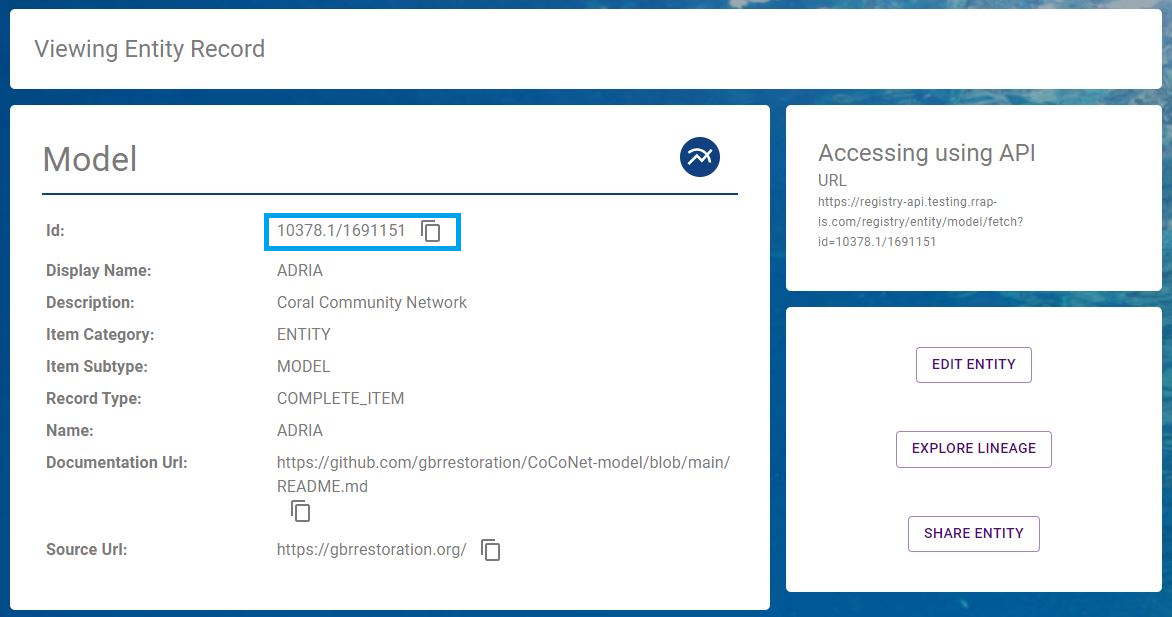
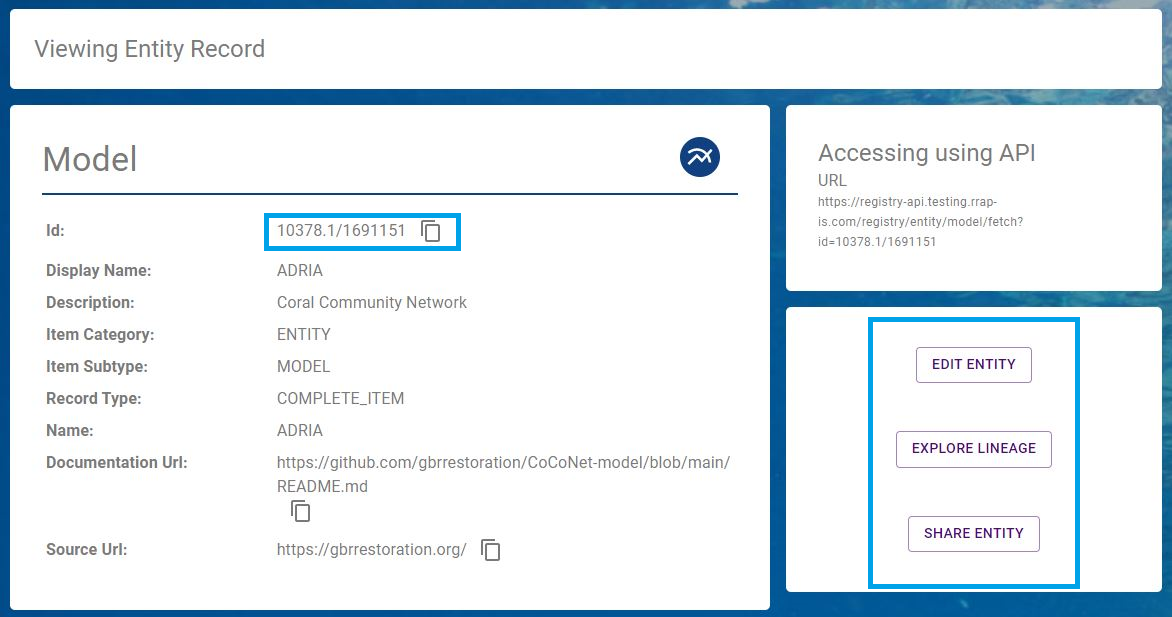
View items

Changed region(s): [[0.7372, 0.4927, 0.9215, 0.9546]]

diff --git a/information-system/provenance/exploring-provenance/index.md b/information-system/provenance/exploring-provenance/index.md
@@ -100,8 +100,24 @@ Listings can be searched by free text entry :
 
 ### View 
 
-Click on any of the tiles to view the record details :
+Click on any of the tiles to view the record details, edit, share or explore lineage:
 
 |                                   Search :                               |
 | :-----------------------------------------------------------------------------: | 
 | <img src="../../../assets/images/provenance/90_ViewRecord.png" alt="drawing" width="600"/>      |
+
+### Edit Record 
+
+Click on **EDIT ENTITY** to edit the record :
+
+|                                   Edit :                               |
+| :-----------------------------------------------------------------------------: | 
+| <img src="../../../assets/images/provenance/100_EditRecord.png" alt="drawing" width="600"/>      |
+
+### View Lineage 
+
+Click on **EXPLORE LINEAGE** to view the lineage of the record :
+
+|                                   Lineage :                               |
+| :-----------------------------------------------------------------------------: | 
+| <img src="../../../assets/images/provenance/110_ExploreLineage.png" alt="drawing" width="600"/>      |
